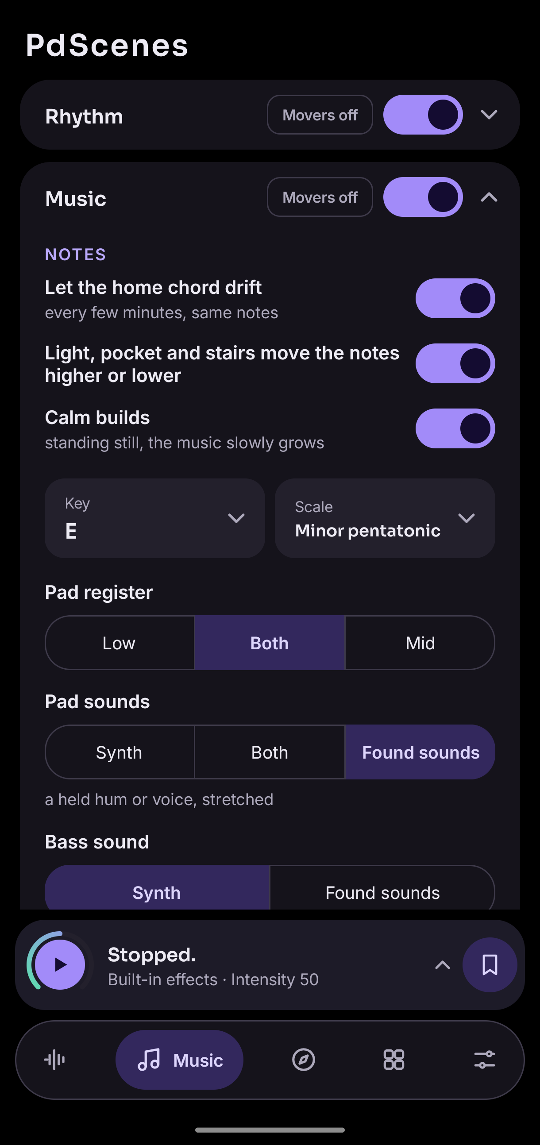
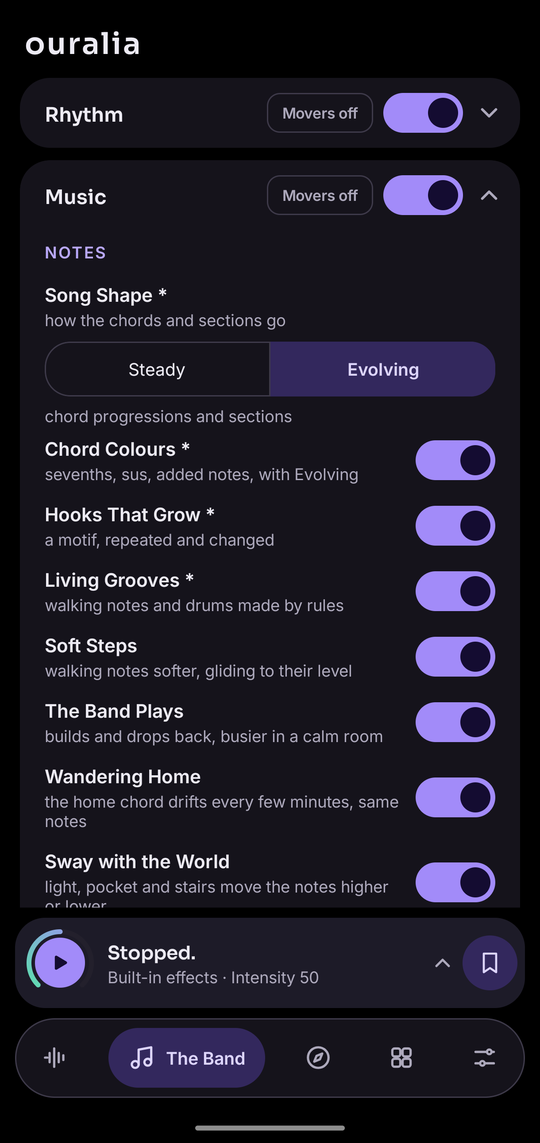
Fresh README screenshots: the Ouralia name, The Band tab, the player and the Realms tab
The old ones were taken the day before the rename and still said PdScenes (ROADMAP 22, Kimi).

diff --git a/docs/ROADMAP.md b/docs/ROADMAP.md
@@ -23,8 +23,7 @@ idea goes into its item and into "Open now". Every item below keeps its history;
 
 Order (DadCraft, Oct 22): the reviews' release and code-health points first, MainActivity's split chief among them.
 
-**Before advertising rc5 (item 22):** fresh README screenshots (all three still say "PdScenes"; after MainActivity's
-split), GitHub repo topics, maybe a short demo GIF.
+**Before advertising rc5 (item 22):** GitHub repo topics, maybe a short demo GIF.
 
 **Code health (item 22):** a long session on the phone (30-60 min: dropouts, CPU, battery, heat) and a cost per
 feature, so new sounds land with a known CPU price. Maybe later: split DESIGN-NOTES and make_patch.py the way
@@ -308,7 +307,7 @@ microphone declarations, store listing.
     - *Built (Oct 22):* PRIVACY.md and About's source link; MainActivity split into ten feature classes (3,753 ->
       1,237 lines, DESIGN-NOTES "MainActivity's split"); motif and answer notes dropped after a restart, not only
       after Stop; `tools/test_release.py` (permissions, backup, name; both test tiers); CI building the app and
-      running the quick tests (`.github/workflows/tests.yml`); CONTRIBUTING.md; an issue template.
+      running the quick tests (`.github/workflows/tests.yml`); CONTRIBUTING.md; an issue template; fresh README screenshots (Ouralia, The Band).
 
 ## Compatibility and scene findings (PdParty, rjlib PDF, composer pack)
 

diff --git a/README.md b/README.md
@@ -16,7 +16,7 @@ it can also play the original RjDj scenes. It will be free on Google Play. (Its 
 <p align="center">
 <img src="docs/screenshots/player.png" width="260" alt="The player: the Intensity dial around the Start button">
 &nbsp;
-<img src="docs/screenshots/music.png" width="260" alt="The Music tab: key, scale, pad and melody sounds">
+<img src="docs/screenshots/music.png" width="260" alt="The Band tab: the song shape and the switches that keep the music changing">
 &nbsp;
 <img src="docs/screenshots/realms.png" width="260" alt="The Realms tab: Realm Hopper and the Realms it picks from">
 </p>
